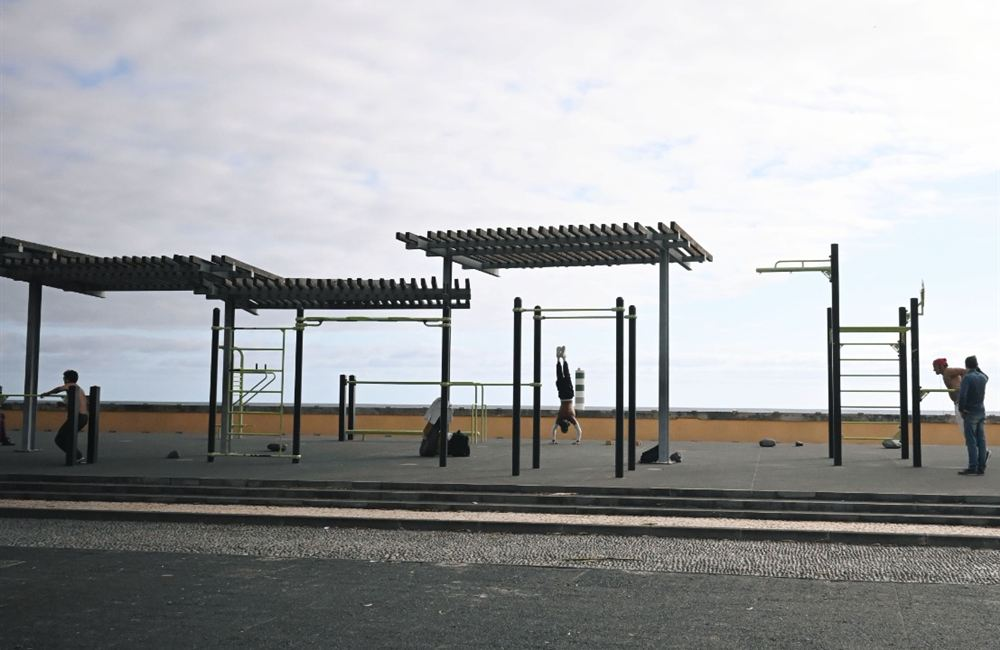
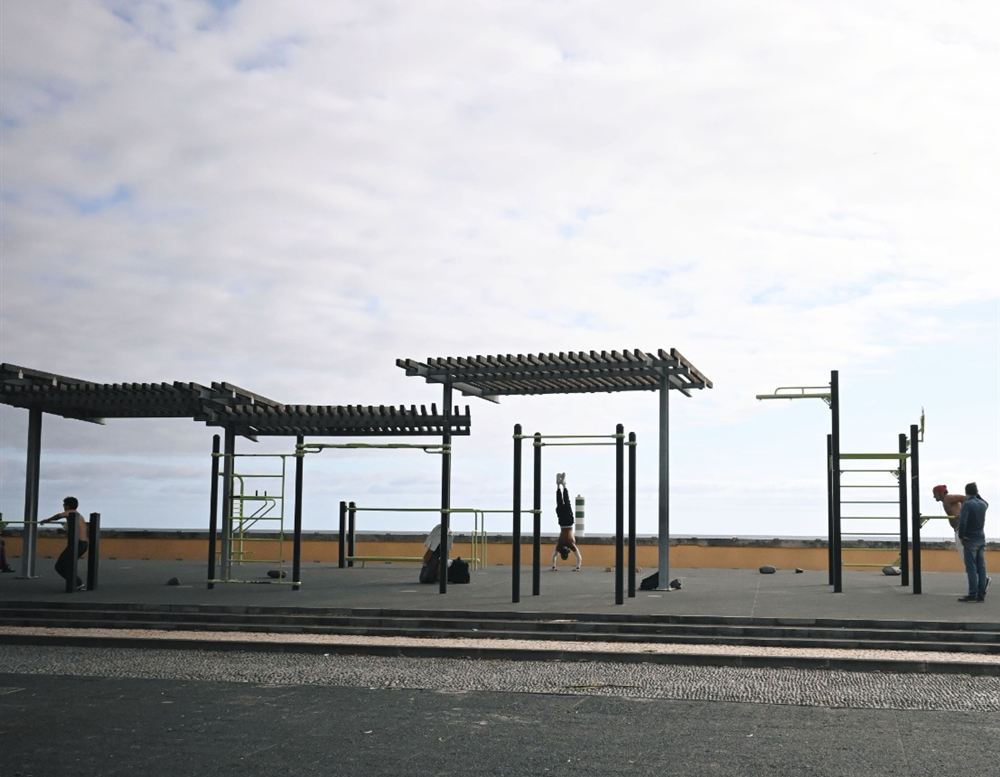
New: helles Kopffoto weiter nach unten, Untertitel wieder lesbar (Fassung 2026-10-16-20)

diff --git a/index.html b/index.html
@@ -13,8 +13,8 @@
 <meta name="apple-mobile-web-app-status-bar-style" content="black-translucent">
 <meta name="apple-mobile-web-app-title" content="BLOC">
 <!-- ?v= gehört zu FASSUNG in sw.js: bei jeder neuen Fassung beide ändern -->
-<link rel="stylesheet" href="./app.css?v=2026-10-16-19">
-<link rel="stylesheet" href="./layout-new.css?v=2026-10-16-19">
+<link rel="stylesheet" href="./app.css?v=2026-10-16-20">
+<link rel="stylesheet" href="./layout-new.css?v=2026-10-16-20">
 </head>
 <body>
 <div id="app"></div>
@@ -22,29 +22,29 @@
 <div id="overlayRoot"></div>
 <nav id="tabbar" class="tabbar hidden" aria-label="Navigation"></nav>
 
-<script src="./texte.js?v=2026-10-16-19"></script>
-<script src="./daten.js?v=2026-10-16-19"></script>
-<script src="./js/01-basis.js?v=2026-10-16-19"></script>
-<script src="./js/02-bibliothek.js?v=2026-10-16-19"></script>
-<script src="./js/03-router.js?v=2026-10-16-19"></script>
-<script src="./js/04-start.js?v=2026-10-16-19"></script>
-<script src="./js/05-suche.js?v=2026-10-16-19"></script>
-<script src="./js/06-timer-listen.js?v=2026-10-16-19"></script>
-<script src="./js/07-studio.js?v=2026-10-16-19"></script>
-<script src="./js/08-koerperkarte.js?v=2026-10-16-19"></script>
-<script src="./js/09-studio-karte.js?v=2026-10-16-19"></script>
-<script src="./js/10-gemeinsam.js?v=2026-10-16-19"></script>
-<script src="./js/11-bibliothek-seite.js?v=2026-10-16-19"></script>
-<script src="./js/11b-katalog.js?v=2026-10-16-19"></script>
-<script src="./js/12-uebung-statistik.js?v=2026-10-16-19"></script>
-<script src="./js/13-teilen-editor.js?v=2026-10-16-19"></script>
-<script src="./js/14-einfuehrung-sicherung.js?v=2026-10-16-19"></script>
-<script src="./js/15-rep-workouts.js?v=2026-10-16-19"></script>
-<script src="./js/16-lauf.js?v=2026-10-16-19"></script>
-<script src="./js/17-aufwaermen-einstellungen.js?v=2026-10-16-19"></script>
-<script src="./js/18-audio.js?v=2026-10-16-19"></script>
-<script src="./js/19-timer-motor.js?v=2026-10-16-19"></script>
-<script src="./js/19a-kalender.js?v=2026-10-16-19"></script>
-<script src="./js/20-walzen-start.js?v=2026-10-16-19"></script>
+<script src="./texte.js?v=2026-10-16-20"></script>
+<script src="./daten.js?v=2026-10-16-20"></script>
+<script src="./js/01-basis.js?v=2026-10-16-20"></script>
+<script src="./js/02-bibliothek.js?v=2026-10-16-20"></script>
+<script src="./js/03-router.js?v=2026-10-16-20"></script>
+<script src="./js/04-start.js?v=2026-10-16-20"></script>
+<script src="./js/05-suche.js?v=2026-10-16-20"></script>
+<script src="./js/06-timer-listen.js?v=2026-10-16-20"></script>
+<script src="./js/07-studio.js?v=2026-10-16-20"></script>
+<script src="./js/08-koerperkarte.js?v=2026-10-16-20"></script>
+<script src="./js/09-studio-karte.js?v=2026-10-16-20"></script>
+<script src="./js/10-gemeinsam.js?v=2026-10-16-20"></script>
+<script src="./js/11-bibliothek-seite.js?v=2026-10-16-20"></script>
+<script src="./js/11b-katalog.js?v=2026-10-16-20"></script>
+<script src="./js/12-uebung-statistik.js?v=2026-10-16-20"></script>
+<script src="./js/13-teilen-editor.js?v=2026-10-16-20"></script>
+<script src="./js/14-einfuehrung-sicherung.js?v=2026-10-16-20"></script>
+<script src="./js/15-rep-workouts.js?v=2026-10-16-20"></script>
+<script src="./js/16-lauf.js?v=2026-10-16-20"></script>
+<script src="./js/17-aufwaermen-einstellungen.js?v=2026-10-16-20"></script>
+<script src="./js/18-audio.js?v=2026-10-16-20"></script>
+<script src="./js/19-timer-motor.js?v=2026-10-16-20"></script>
+<script src="./js/19a-kalender.js?v=2026-10-16-20"></script>
+<script src="./js/20-walzen-start.js?v=2026-10-16-20"></script>
 </body>
 </html>

diff --git a/sw.js b/sw.js
@@ -7,7 +7,7 @@
  */
 
 /* Einzige Stelle für die Versionsnummer - die App fragt sie per postMessage ab (Einstellungen, ganz unten) */
-var FASSUNG = "2026-10-16-19";
+var FASSUNG = "2026-10-16-20";
 var NETZ_WARTEN = 2500;   // ms - so lange wartet der Start höchstens aufs Netz, wenn es eine gespeicherte Fassung gibt
 var SPEICHER = "sporttimer-" + FASSUNG;
 var GRUNDGERUEST = ["./", "./index.html", "./texte.js", "./quellen.html", "./daten.js", "./js/01-basis.js", "./js/02-bibliothek.js", "./js/03-router.js", "./js/04-start.js", "./js/05-suche.js", "./js/06-timer-listen.js", "./js/07-studio.js", "./js/08-koerperkarte.js", "./js/09-studio-karte.js", "./js/10-gemeinsam.js", "./js/11-bibliothek-seite.js", "./js/11b-katalog.js", "./js/12-uebung-statistik.js", "./js/13-teilen-editor.js", "./js/14-einfuehrung-sicherung.js", "./js/15-rep-workouts.js", "./js/16-lauf.js", "./js/17-aufwaermen-einstellungen.js", "./js/18-audio.js", "./js/19-timer-motor.js", "./js/19a-kalender.js", "./js/20-walzen-start.js", "./app.css", "./layout-new.css", "./img/neu-workout.jpg", "./img/neu-mobility.jpg", "./img/neu-timer.jpg", "./img/neu-summit.jpg", "./img/neu-run.jpg", "./img/neu-builder.webp", "./img/neu-kopf.jpg", "./img/neu-kopf-hell.jpg", "./img/neu-freiluft.jpg", "./img/neu-p-freiluft-park.jpg", "./img/neu-p-freiluft-meer.jpg", "./img/neu-p-liegestuetz-strand.jpg", "./img/neu-p-liegestuetz-stadt.jpg", "./img/neu-p-freiluft-sw.jpg", "./img/neu-p-studio-hantelreihe.jpg", "./img/neu-p-studio-gewichtsblock.jpg", "./img/neu-p-studio-halle.jpg", "./img/neu-p-kraft-sw.jpg", "./img/neu-p-liegestuetz-halle.jpg", "./img/neu-p-liegestuetz-feld.jpg", "./img/neu-p-mobility-ausfall.jpg", "./img/neu-p-mobility-sitz.jpg", "./img/neu-p-run-licht.jpg", "./img/neu-p-run-strasse.jpg", "./img/neu-p-run-weg.jpg", "./img/neu-p-run-wald.jpg", "./img/neu-p-run-sw.jpg", "./img/neu-p-freiluft-leiter.jpg", "./manifest.json", "./icon.png", "./icon-180.png", "./privacy.html", "./img/ort-fitnessstudio.jpg", "./img/ort-freiluft.jpg", "./img/start-halle.jpg", "./img/bereich-mobility.jpg", "./img/bereich-timer.jpg", "./img/bereich-summit.jpg", "./img/bereich-run.jpg", "./img/bereich-suche.jpg"];

diff --git a/layout-new.css b/layout-new.css
@@ -374,7 +374,7 @@
 /* Heute, Kopf im hellen Modus (Hell oder System bei hellem Gerät): helles Foto statt des dunklen Studios, Schrift dunkel, Verlauf nach unten in die helle Fläche.
    Zwei gleiche Regelsätze, weil „System“ kein data-theme setzt und nur per prefers-color-scheme erkannt wird. */
 :root[data-layout="new"] .kn-hell{ display:none; }
-:root[data-layout="new"][data-theme="light"] .kn-hell{ display:block; object-position:50% 45%; }
+:root[data-layout="new"][data-theme="light"] .kn-hell{ display:block; object-position:50% 25%; }
 :root[data-layout="new"][data-theme="light"] .kn-bild:not(.kn-hell){ display:none; }
 :root[data-layout="new"][data-theme="light"] .kopf-neu{ color:var(--text); }
 :root[data-layout="new"][data-theme="light"] .kn-tint{ background:linear-gradient(to top left, rgba(255,90,54,.30) 0%, rgba(255,90,54,0) 52%); }
@@ -383,7 +383,7 @@
 :root[data-layout="new"][data-theme="light"] .marke-neu small,
 :root[data-layout="new"][data-theme="light"] .kn-gruss span{ color:var(--text); opacity:.78; }
 @media (prefers-color-scheme: light){
-  :root[data-layout="new"]:not([data-theme]) .kn-hell{ display:block; object-position:50% 45%; }
+  :root[data-layout="new"]:not([data-theme]) .kn-hell{ display:block; object-position:50% 25%; }
   :root[data-layout="new"]:not([data-theme]) .kn-bild:not(.kn-hell){ display:none; }
   :root[data-layout="new"]:not([data-theme]) .kopf-neu{ color:var(--text); }
   :root[data-layout="new"]:not([data-theme]) .kn-tint{ background:linear-gradient(to top left, rgba(255,90,54,.30) 0%, rgba(255,90,54,0) 52%); }
